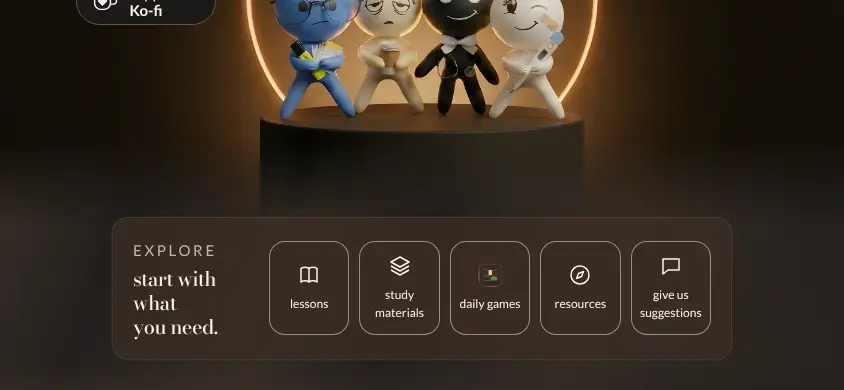
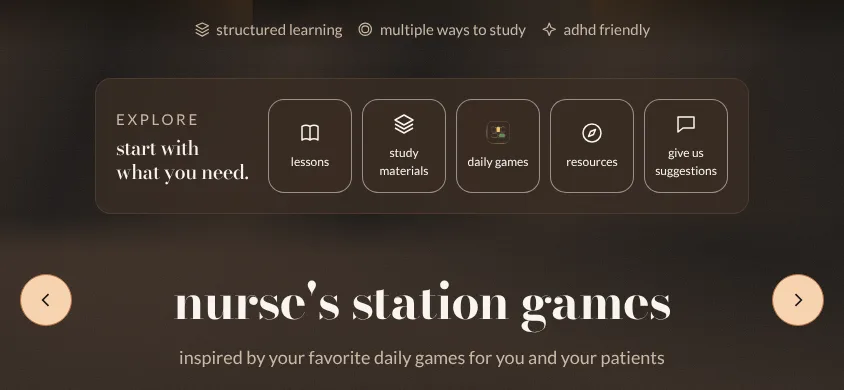
Home v3 explore dock: heading in two lines at every size, 826 px wide at 1440, 654 px on landscape
- the heading breaks as "start with / what you need." (the board's two lines; at 844 it was three or four)
- landscape heading column fits "what you need." on one line; landscape dock 654 px wide, 36 px under the points
- desktop dock 826 px wide (board: 780 + padding + border)
- overlap on desktop, tablet and phone portrait stays the board's 92 px; landscape stays a normal block
- proofs retaken on the page with the new hero stage (#1155) merged in a scratch tree

Claude-Session: https://claude.ai/code/session_01V8pHm5xDFd3PCqqXThexqv

diff --git a/src/styles/tokens.css b/src/styles/tokens.css
@@ -337,11 +337,11 @@
   --hero-logo-inset: calc(var(--header-inline-gutter) + var(--tap-min) + var(--header-corner-gap) - var(--spacing-gutter));
   --hero-eyebrow-gap: 2.5rem;   /* between the logo row and the motto */
   --explore-overlap: -5.75rem;      /* the explore dock overlaps the bottom of the hero stage (board: 92 px at 1440) */
-  --explore-landscape-gap: 1.5rem;  /* phone landscape: the dock sits this far under the hero's points, no overlap */
-  --explore-landscape-width: 38.75rem; /* phone landscape: the dock is at most 620 px wide */
-  --explore-landscape-heading-width: 7.5rem;
+  --explore-landscape-gap: 0.5rem;  /* phone landscape: the dock sits this far under the hero's points (which carry 28 px of their own: about 36 px in all, board 35), no overlap */
+  --explore-landscape-width: 40.875rem; /* phone landscape: the dock is at most 654 px wide (board) */
+  --explore-landscape-heading-width: 8.5rem; /* holds "what you need." (132 px at 20 px) on one line */
   --explore-landscape-tile-text: 0.75rem; /* board: 12 px tile labels on phone landscape */
-  --explore-dock-width: 51.5rem;    /* board: about 825 px at 1440 */
+  --explore-dock-width: 51.625rem;  /* board: 826 px at 1440 (780 + padding + border) */
   --explore-dock-gap: 1rem;
   --explore-dock-padding: 1.25rem;
   --explore-dock-tile-gap: 0.625rem;
